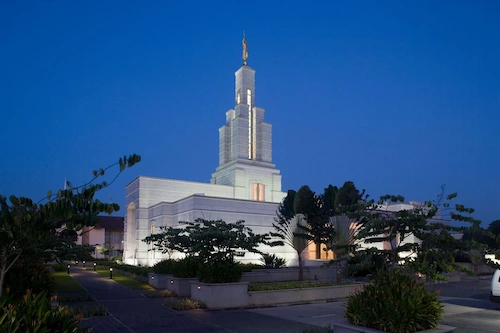
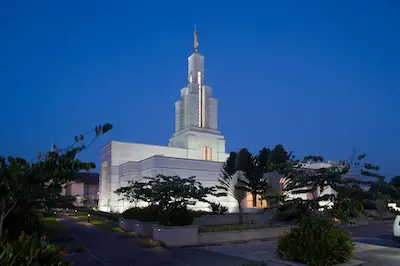
optimice images - 9th commit

diff --git a/scripts/filtered-temples.js b/scripts/filtered-temples.js
@@ -107,7 +107,6 @@ const temples = [
 ];
 
 
-//  
 function createTempleCard(templesArr) {
   const grid = document.querySelector(".res-grid");
   grid.innerHTML = "";
@@ -125,9 +124,9 @@ function createTempleCard(templesArr) {
     area.innerHTML = `<span class="label">Size: </span>${temple.area.toLocaleString()} sq ft`;
     img.setAttribute("src", temple.imageUrl);
     img.setAttribute("alt", `${temple.templeName} Temple`);
-    img.setAttribute("loading", "lazy");
     img.setAttribute("width", "350");
     img.setAttribute("height", "200");
+
 
     card.appendChild(name);
     card.appendChild(location);
